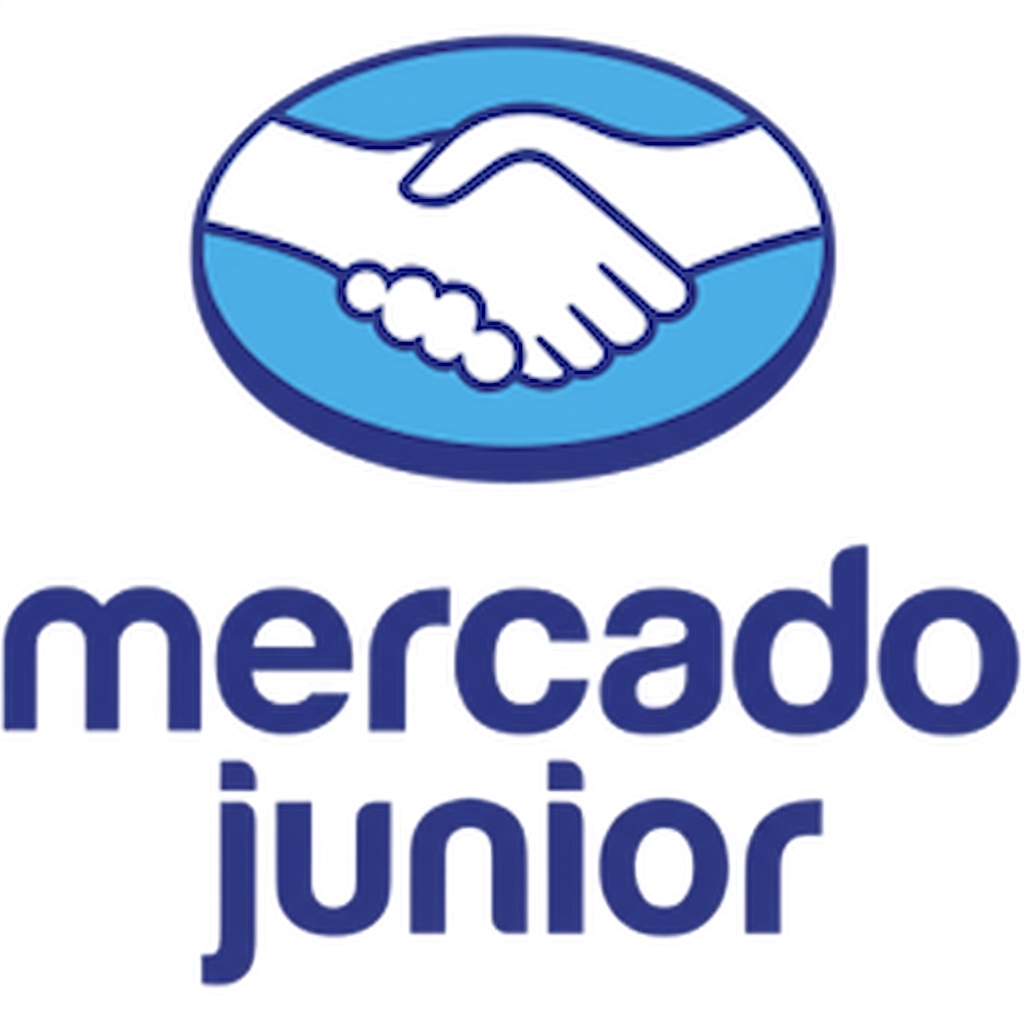
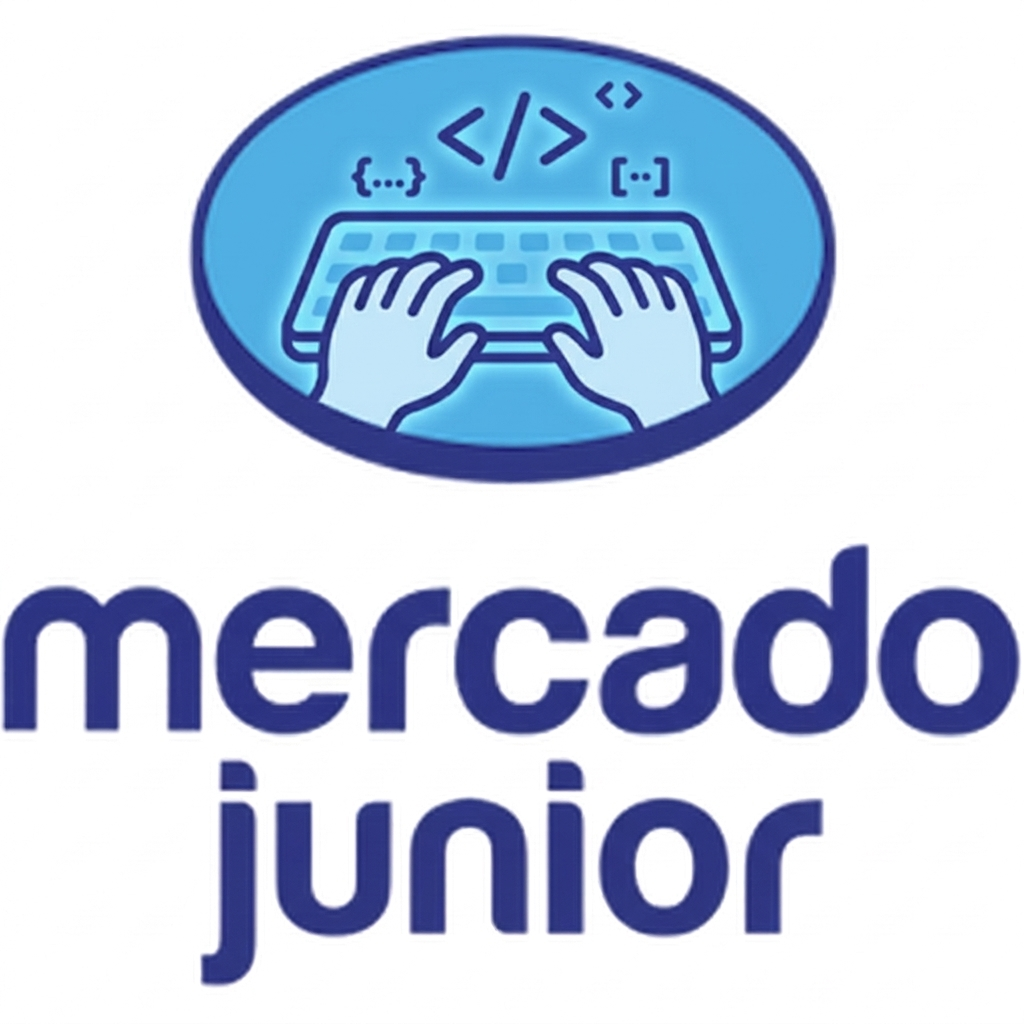
feat: add pagination to payments history and update color theme

Changed region(s): [[0.1875, 0.0625, 0.8125, 0.4375]]

diff --git a/app/frontend/index.html b/app/frontend/index.html
@@ -9,9 +9,9 @@
   *, *::before, *::after { box-sizing: border-box; margin: 0; padding: 0; }
 
   :root {
-    --bg: #f0f2f5;
-    --sidebar: #00a650;
-    --sidebar-dark: #007a3c;
+ --bg: #f0f2f5;
+    --sidebar: #009ee3;
+    --sidebar-dark: #0077b6;
     --sidebar-text: rgba(255,255,255,0.75);
     --sidebar-active: rgba(255,255,255,0.15);
     --white: #ffffff;
@@ -23,8 +23,8 @@
     --gray-800: #343a40;
     --blue: #009ee3;
     --blue-light: #e6f6fd;
-    --green: #00a650;
-    --green-light: #e6f7ee;
+    --green: #009ee3;
+    --green-light: #e6f6fd;
     --red: #f23d4f;
     --red-light: #fef0f1;
     --yellow: #f5a623;
@@ -48,7 +48,7 @@
   /* ── LOGIN ── */
   #login-screen {
     position: fixed; inset: 0;
-    background: linear-gradient(135deg, #00a650 0%, #007a3c 50%, #005a2d 100%);
+    background: linear-gradient(135deg, #33b5e8 0%, #009ee3 50%, #0077b6 100%);
     display: flex; align-items: center; justify-content: center;
     z-index: 1000;
     transition: opacity 0.4s ease;
@@ -369,7 +369,7 @@
 <div id="login-screen">
   <div class="login-card">
     <div class="login-logo">
-      <img src="mercadojunior.png" alt="MercadoJunior" style="height: 100px;" /> 
+      <img src="mercadojunior.png" alt="MercadoJunior" style="height: 110px;" /> 
     </div>
     <h2>Bienvenido</h2>
     <p>Ingresá tu API Key para acceder al simulador de pagos</p>
@@ -392,7 +392,7 @@
   <aside class="sidebar">
     <div class="sidebar-header">
     <div class="sidebar-logo">
-  <img src="mercadojunior.png" alt="MercadoJunior" style="height: 90px; width: 90px; border-radius: 50%; object-fit: cover;" />
+  <img src="mercadojunior.png" alt="MercadoJunior" style="height: 110px; width: 110px; border-radius: 50%; object-fit: cover;" />
 </div>
     </div>
     <div class="sidebar-merchant">
@@ -504,7 +504,7 @@
       </div>
     </div>
 
-    <!-- HISTORY -->
+<!-- HISTORY -->
     <div class="page" id="page-history">
       <div class="page-header">
         <h1>Historial de pagos</h1>
@@ -542,6 +542,11 @@
             </tbody>
           </table>
         </div>
+        <div style="display:flex; justify-content:space-between; align-items:center; margin-top:1rem;">
+          <button class="filter-btn" onclick="changePage(-1)">← Anterior</button>
+          <span id="page-indicator" style="font-size:13px; color:var(--text-muted);">Página 1</span>
+          <button class="filter-btn" onclick="changePage(1)">Siguiente →</button>
+        </div>
       </div>
     </div>
 
@@ -558,6 +563,9 @@ let merchantId = null;
 let pollingInterval = null;
 let currentFilter = 'all';
 let allPayments = [];
+let currentPage = 0;
+const PAGE_SIZE = 10;
+
 
 function getHeaders() {
   return { 'Content-Type': 'application/json', 'X-API-Key': apiKey };
@@ -574,6 +582,7 @@ async function handleLogin() {
     if (!res.ok) throw new Error();
     const merchant = await res.json();
     if (merchant.id !== mid) throw new Error();
+    apiKey = key;
     merchantId = mid;
     localStorage.setItem('apiKey', key);
     localStorage.setItem('merchantId', mid);
@@ -633,7 +642,7 @@ async function loadDashboard() {
   } catch { showToast('Error cargando merchants', 'red'); }
 
   try {
-    const res2 = await fetch(`${API}/payments/?merchant_id=${merchantId}`, { headers: getHeaders() });
+    const res2 = await fetch(`${API}/payments/?merchant_id=${merchantId}&skip=0&limit=10`, { headers: getHeaders() });
     if (res2.ok) {
       const payments = await res2.json();
       document.getElementById('stat-approved').textContent = payments.filter(p=>p.status==='approved').length;
@@ -644,7 +653,7 @@ async function loadDashboard() {
 
 async function loadPayments() {
   try {
-    const res = await fetch(`${API}/payments/?merchant_id=${merchantId}`, { headers: getHeaders() });
+    const res = await fetch(`${API}/payments/?merchant_id=${merchantId}&skip=${currentPage * PAGE_SIZE}&limit=${PAGE_SIZE}`, { headers: getHeaders() });
     if (!res.ok) return;
     allPayments = await res.json();
     renderPayments();
@@ -728,6 +737,14 @@ async function refundPayment(paymentId) {
     showToast(`Error: ${e.message}`, 'red');
   }
 }
+
+function changePage(direction) {
+  if (currentPage + direction < 0) return;
+  currentPage += direction;
+  document.getElementById('page-indicator').textContent = `Página ${currentPage + 1}`;
+  loadPayments();
+}
+
 
 function startPolling() {
   clearInterval(pollingInterval);

diff --git a/app/repositories/payment_repo.py b/app/repositories/payment_repo.py
@@ -19,8 +19,8 @@ class PaymentRepository:
         result = await self.session.execute(select(Payment).where(Payment.id == payment_id))
         return result.scalars().first()
     
-    async def get_all_payments(self, merchant_id: int):
-        result = await self.session.execute(select(Payment).where(or_(Payment.payer_id == merchant_id, Payment.receiver_id == merchant_id)))
+    async def get_all_payments(self, merchant_id: int, skip: int = 0, limit: int = 10):
+        result = await self.session.execute(select(Payment).where(or_(Payment.payer_id == merchant_id, Payment.receiver_id == merchant_id)).offset(skip).limit(limit))
         return result.scalars().all()
     
     async def update_payment_status(self, payment_id: int, new_status: PaymentStatus):

diff --git a/app/services/payment_service.py b/app/services/payment_service.py
@@ -61,8 +61,8 @@ class PaymentService:
     async def get_payment_by_id(self, payment_id):
         return await self.payment_repo.get_payment_by_id(payment_id)
 
-    async def get_all_payments(self, merchant_id: int):
-        return await self.payment_repo.get_all_payments(merchant_id)
+    async def get_all_payments(self, merchant_id: int, skip: int = 0, limit: int = 10):
+        return await self.payment_repo.get_all_payments(merchant_id, skip, limit)
 
     async def update_payment(self, payment_id: int, new_status: PaymentStatus):
         payment = await self.get_payment_by_id(payment_id)

diff --git a/app/api/payment_router.py b/app/api/payment_router.py
@@ -16,8 +16,8 @@ async def get_payment_service(db=Depends(get_db)):
 
 
 @router.get("/")
-async def get_all_payments(merchant_id: int, service=Depends(get_payment_service)):
-    return await service.get_all_payments(merchant_id)
+async def get_all_payments(merchant_id: int, skip: int = 0, limit: int = 10, service=Depends(get_payment_service)):
+    return await service.get_all_payments(merchant_id, skip, limit)
 
 @router.get("/{payment_id}")
 async def get_payment(payment_id: int, service=Depends(get_payment_service)):

diff --git a/app/core/config.py b/app/core/config.py
@@ -7,7 +7,7 @@ class Settings(BaseSettings):
     POSTGRES_HOST: str
     POSTGRES_PORT: str
     MAX_PAYMENT_AMOUNT: int = 10000
-    MAX_ACTIVE_PAYMENTS_PER_MERCHANT: int = 5
+    MAX_ACTIVE_PAYMENTS_PER_MERCHANT: int = 100
 
     @property
     def DATABASE_URL(self) -> str:
